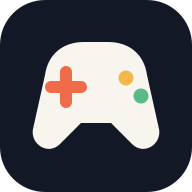
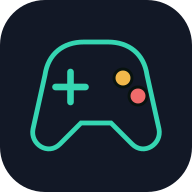
Add branded library loading animation

Changed region(s): [[0.1562, 0.1875, 0.8438, 0.8125]]

diff --git a/public/docs/technical.html b/public/docs/technical.html
@@ -266,7 +266,7 @@
 </ol>
 <p>An HTTP 401 on a protected request made from an active application advances the client session generation, returns to login, and reports that the session expired. A 401 from the initial <code>/api/auth/me</code> probe is treated as an ordinary logged-out visit and does not show that warning. No browser-stored token needs to be removed.</p>
 <h3 id="rendering">Rendering<a class="anchor" href="#rendering" aria-label="Link to section">#</a></h3>
-<p>Game cards are generated from escaped values. Filters are sent to the server rather than applied to a global cross-user data set. Search uses a 220 ms query debounce. View, search, filter, and sort changes are separately debounced into <code>/api/preferences</code>, which stores the validated snapshot in SQLite. Dirty preference state retries after a transient failure and is flushed with a keepalive request when the page exits or before logout. Rendering is batched in groups of 120.</p>
+<p>Game cards are generated from escaped values. While a library request has no existing cards to preserve, the grid area shows a compact animated controller derived from the green-outline favicon; it is hidden as soon as cards or the genuine empty state can render. Refreshes with existing cards never replace them with the loader. Reduced-motion clients receive the same status as a static mark. Filters are sent to the server rather than applied to a global cross-user data set. Search uses a 220 ms query debounce. View, search, filter, and sort changes are separately debounced into <code>/api/preferences</code>, which stores the validated snapshot in SQLite. Dirty preference state retries after a transient failure and is flushed with a keepalive request when the page exits or before logout. Rendering is batched in groups of 120.</p>
 <h3 id="dialog-pointer-safety">Dialog pointer safety<a class="anchor" href="#dialog-pointer-safety" aria-label="Link to section">#</a></h3>
 <p>Backdrop dismissal tracks <code>pointerdown</code> and <code>pointerup</code>. It closes only when both events target the dialog backdrop. This prevents a text-selection drag that begins inside the form and ends outside from dismissing the dialog.</p>
 <p>Destructive actions use themed HTML dialogs in both the public application and localhost admin. Native browser <code>alert</code>, <code>confirm</code>, and <code>prompt</code> APIs are not used.</p>

diff --git a/public/index.html b/public/index.html
@@ -28,8 +28,8 @@
   <meta name="twitter:image" content="https://gamekat.net/social-preview.png">
   <meta name="twitter:image:alt" content="Game Kat·a·log personal game collection manager">
   <title>Game Kat·a·log — Video Game Collection, Backlog &amp; Wishlist Tracker</title>
-  <link rel="icon" href="/favicon.svg" type="image/svg+xml">
-  <link rel="apple-touch-icon" href="/icon-192.png">
+  <link rel="icon" href="/favicon.svg?v=6" type="image/svg+xml">
+  <link rel="apple-touch-icon" href="/icon-192.png?v=6">
   <link rel="manifest" href="/manifest.webmanifest">
   <script>document.documentElement.classList.add('resuming-session')</script>
   <link rel="stylesheet" href="/css/foundation.css">
@@ -199,6 +199,19 @@
           <div class="filter-foot"><span id="result-count">Loading collection…</span><button class="text-button" id="clear-filters" hidden>Clear filters</button></div>
         </div>
 
+        <div id="library-loader" class="library-loader" role="status" aria-live="polite" hidden>
+          <div class="library-loader-inner">
+            <svg class="library-loader-controller" viewBox="0 0 64 64" aria-hidden="true">
+              <g class="library-loader-mark">
+                <path class="loader-controller-body" d="M15 25c1-7 6-11 13-11h8c7 0 12 4 13 11l4 18c1 5-5 9-9 5l-7-7H27l-7 7c-4 4-10 0-9-5z"/>
+                <path class="loader-control loader-dpad" d="M23.5 24v10M18.5 29h10"/>
+                <circle class="loader-control loader-action-a" cx="41" cy="26" r="3"/>
+                <circle class="loader-control loader-action-b" cx="46" cy="32" r="3"/>
+              </g>
+            </svg>
+            <span>Loading collection…</span>
+          </div>
+        </div>
         <div id="games" class="game-grid" aria-live="polite"></div>
         <div id="empty" class="empty-state" hidden><span>⌁</span><h3>No games found</h3><p>Try clearing a filter, or add a new title.</p><button class="button primary" data-add-game>Add a game</button></div>
         <button id="load-more" class="button load-more" hidden>Show more</button>

diff --git a/test/ui.test.js b/test/ui.test.js
@@ -116,6 +116,20 @@ test('authenticated shell renders before library data and artwork finish', () =>
   assert.doesNotMatch(application, /await Promise\.all\(\[loadGames\(\), loadStatsAndMeta\(\)\]\)[\s\S]*#app-shell'\)\.hidden = false/);
 });
 
+test('an empty library request uses the favicon controller as its loading state', () => {
+  const html = read('public/index.html'); const application = read('public/app.js'); const css = readPublicCss();
+  assert.match(html, /id="library-loader" class="library-loader" role="status" aria-live="polite" hidden/);
+  assert.match(html, /class="library-loader-mark"[\s\S]*class="loader-controller-body"[\s\S]*class="loader-control loader-dpad"[\s\S]*class="loader-control loader-action-a"[\s\S]*class="loader-control loader-action-b"/);
+  assert.match(html, /loader-dpad" d="M23\.5 24v10M18\.5 29h10"/);
+  assert.match(html, /loader-action-a" cx="41" cy="26"[\s\S]*loader-action-b" cx="46" cy="32"/);
+  assert.match(application, /#library-loader'\)\.hidden = !state\.loading \|\| state\.games\.length > 0/);
+  assert.match(css, /\.loader-controller-body\{fill:none;stroke:#35d6b2;stroke-width:1\.6/);
+  assert.match(css, /\.loader-dpad\{fill:none;stroke:#35d6b2;stroke-width:2\.2/);
+  assert.match(css, /@keyframes controller-breathe/);
+  assert.match(css, /@keyframes controller-press/);
+  assert.match(css, /@media \(prefers-reduced-motion:reduce\)[^{]*\{[\s\S]*\.library-loader-mark,[^{]*\.loader-control\{animation:none\}/);
+});
+
 test('login and registration keep a stable desktop rail without filler content', () => {
   const html = read('public/index.html'); const application = read('public/app.js'); const css = readPublicCss();
   assert.match(html, /id="auth-screen" class="auth-screen" data-auth-mode="login"/);

diff --git a/public/css/library.css b/public/css/library.css
@@ -236,6 +236,74 @@ body {
 .empty-state p {
   font-size: 10px;
 }
+.library-loader {
+  min-height: clamp(180px, 28vh, 280px);
+  display: grid;
+  place-items: center;
+  color: #7f918f;
+}
+.library-loader-inner {
+  display: flex;
+  flex-direction: column;
+  align-items: center;
+  gap: 10px;
+  font-size: 10px;
+  letter-spacing: 0.08em;
+  text-transform: uppercase;
+}
+.library-loader-controller {
+  width: 58px;
+  height: 58px;
+  overflow: visible;
+  filter: drop-shadow(0 7px 12px #0009);
+}
+.library-loader-mark {
+  transform-box: view-box;
+  transform-origin: 32px 32px;
+  animation: controller-breathe 1.8s ease-in-out infinite;
+}
+.loader-controller-body {
+  fill: none;
+  stroke: #35d6b2;
+  stroke-width: 1.6;
+}
+.loader-control {
+  transform-box: fill-box;
+  transform-origin: center;
+  animation: controller-press 1.8s ease-in-out infinite;
+}
+.loader-dpad {
+  fill: none;
+  stroke: #35d6b2;
+  stroke-width: 2.2;
+  stroke-linecap: round;
+}
+.loader-action-a {
+  fill: #f2b84b;
+  stroke: #08120f;
+  stroke-width: 1;
+  animation-delay: -1.2s;
+}
+.loader-action-b {
+  fill: #ef6b6b;
+  stroke: #08120f;
+  stroke-width: 1;
+  animation-delay: -0.6s;
+}
+@keyframes controller-breathe {
+  0%, 100% { transform: scale(1); filter: brightness(0.92); }
+  50% { transform: scale(1.045); filter: brightness(1.12); }
+}
+@keyframes controller-press {
+  0%, 38%, 62%, 100% { transform: scale(1); }
+  48% { transform: scale(0.72); }
+}
+@media (prefers-reduced-motion: reduce) {
+  .library-loader-mark,
+  .loader-control {
+    animation: none;
+  }
+}
 .filters label > span,
 .form-grid label > span,
 .auth-body form label > span {

diff --git a/public/docs/user-guide.html b/public/docs/user-guide.html
@@ -56,7 +56,7 @@
 <li>Sessions remain valid for two weeks and are extended while used. Revoked or expired sessions also close their live-update stream within about 20 seconds.</li>
 <li>Select the username in the top-right corner, then <strong>Log out</strong>, to end the current session.</li>
 </ul>
-<p>During refresh, a compact <strong>Mounting authenticated library…</strong> screen remains visible only while the secure session cookie is checked. The app then appears immediately in its loading state; library data, header covers, and background covers fill in afterward. The public login and registration interface is shown only if that session is absent or invalid.</p>
+<p>During refresh, a compact <strong>Mounting authenticated library…</strong> screen remains visible only while the secure session cookie is checked. The app then appears immediately in its loading state; a green-outline controller marks an empty grid while library data arrives, and header and background covers fill in afterward. Existing cards remain visible during later refreshes instead of being replaced by the loader. The public login and registration interface is shown only if that session is absent or invalid.</p>
 <hr>
 <h2 id="dashboard">Dashboard<a class="anchor" href="#dashboard" aria-label="Link to section">#</a></h2>
 <p>The ten compact cards summarize the current account and act as one-click major filters:</p>

diff --git a/test/seo.test.js b/test/seo.test.js
@@ -58,3 +58,18 @@ test('social and install assets have production dimensions', () => {
   assert.deepEqual(pngDimensions('icon-192.png'), [192, 192]);
   assert.deepEqual(pngDimensions('icon-512.png'), [512, 512]);
 });
+
+test('favicon uses a green controller outline with contrasting action buttons', () => {
+  const html = read('index.html'); const favicon = read('favicon.svg'); const manifest = JSON.parse(read('manifest.webmanifest'));
+  assert.match(html, /rel="icon" href="\/favicon\.svg\?v=6"/);
+  assert.match(favicon, /fill="none" stroke="#35d6b2" stroke-width="1\.6"/);
+  assert.match(favicon, /fill="none" stroke="#35d6b2" stroke-width="2\.2"/);
+  assert.match(favicon, /fill="#f2b84b"/);
+  assert.match(favicon, /fill="#ef6b6b"/);
+  assert.match(favicon, /cx="41" cy="26" r="3" fill="#f2b84b"/);
+  assert.match(favicon, /cx="46" cy="32" r="3" fill="#ef6b6b"/);
+  assert.match(favicon, /d="M23\.5 24v10M18\.5 29h10"/);
+  assert.equal(manifest.icons[0].src, '/favicon.svg?v=6');
+  assert.equal(manifest.icons[1].src, '/icon-192.png?v=6');
+  assert.equal(manifest.icons[2].src, '/icon-512.png?v=6');
+});

diff --git a/public/app.js b/public/app.js
@@ -357,6 +357,7 @@ function cardNode(game) {
 }
 function updateCollectionChrome() {
   const shown = state.games.slice(0, state.limit);
+  $('#library-loader').hidden = !state.loading || state.games.length > 0;
   $('#empty').hidden = state.loading || state.games.length > 0;
   $('#load-more').hidden = shown.length >= state.games.length;
   $('#result-count').textContent = `${state.games.length.toLocaleString()} ${state.games.length === 1 ? 'game' : 'games'} found`;

diff --git a/docs/technical.md b/docs/technical.md
@@ -427,7 +427,7 @@ An HTTP 401 on a protected request made from an active application advances the 
 
 ### Rendering
 
-Game cards are generated from escaped values. Filters are sent to the server rather than applied to a global cross-user data set. Search uses a 220 ms query debounce. View, search, filter, and sort changes are separately debounced into `/api/preferences`, which stores the validated snapshot in SQLite. Dirty preference state retries after a transient failure and is flushed with a keepalive request when the page exits or before logout. Rendering is batched in groups of 120.
+Game cards are generated from escaped values. While a library request has no existing cards to preserve, the grid area shows a compact animated controller derived from the green-outline favicon; it is hidden as soon as cards or the genuine empty state can render. Refreshes with existing cards never replace them with the loader. Reduced-motion clients receive the same status as a static mark. Filters are sent to the server rather than applied to a global cross-user data set. Search uses a 220 ms query debounce. View, search, filter, and sort changes are separately debounced into `/api/preferences`, which stores the validated snapshot in SQLite. Dirty preference state retries after a transient failure and is flushed with a keepalive request when the page exits or before logout. Rendering is batched in groups of 120.
 
 ### Dialog pointer safety
 

diff --git a/docs/user-guide.md b/docs/user-guide.md
@@ -25,7 +25,7 @@ Every account has an isolated library. Game ownership is attached to the account
 - Sessions remain valid for two weeks and are extended while used. Revoked or expired sessions also close their live-update stream within about 20 seconds.
 - Select the username in the top-right corner, then **Log out**, to end the current session.
 
-During refresh, a compact **Mounting authenticated library…** screen remains visible only while the secure session cookie is checked. The app then appears immediately in its loading state; library data, header covers, and background covers fill in afterward. The public login and registration interface is shown only if that session is absent or invalid.
+During refresh, a compact **Mounting authenticated library…** screen remains visible only while the secure session cookie is checked. The app then appears immediately in its loading state; a green-outline controller marks an empty grid while library data arrives, and header and background covers fill in afterward. Existing cards remain visible during later refreshes instead of being replaced by the loader. The public login and registration interface is shown only if that session is absent or invalid.
 
 ---
 
